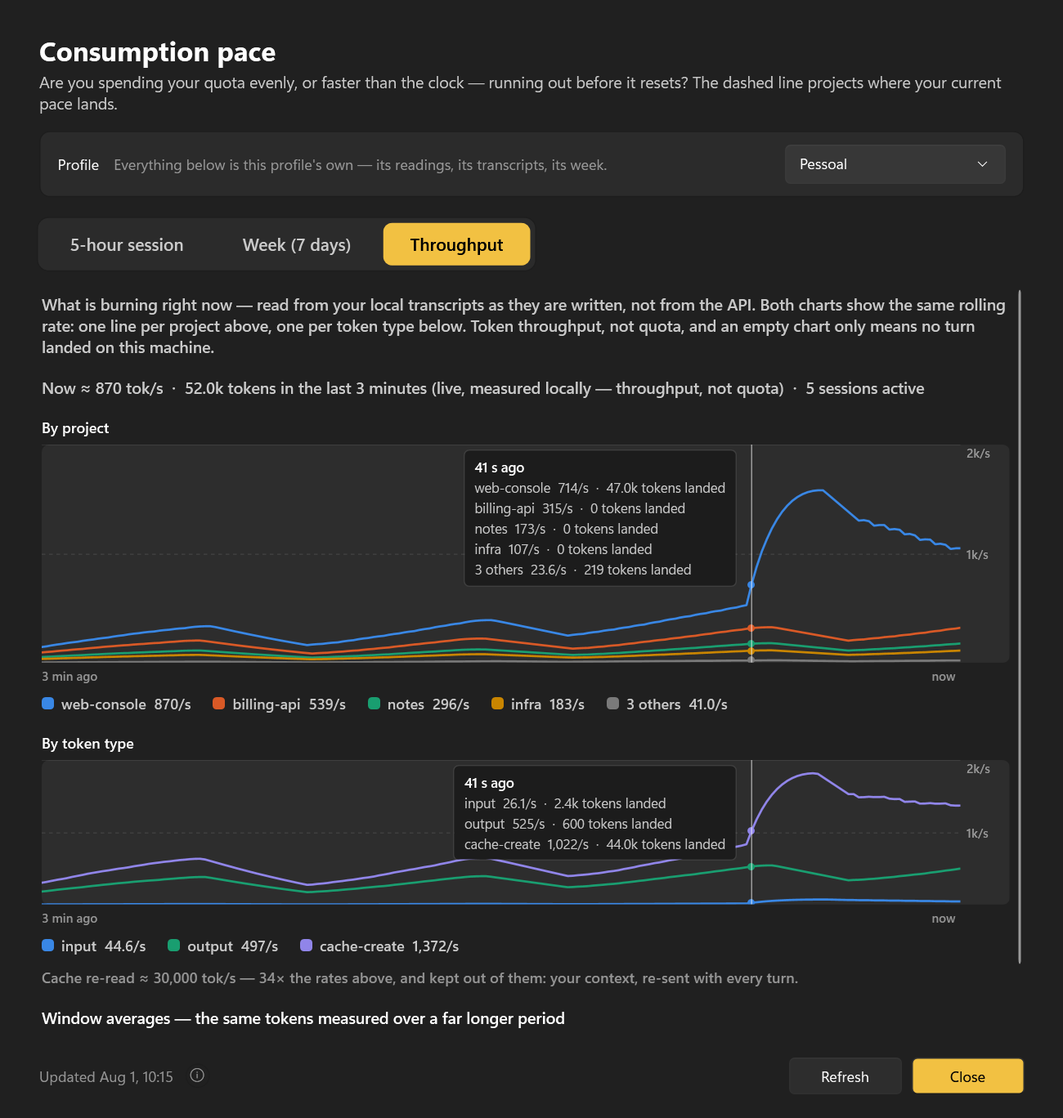
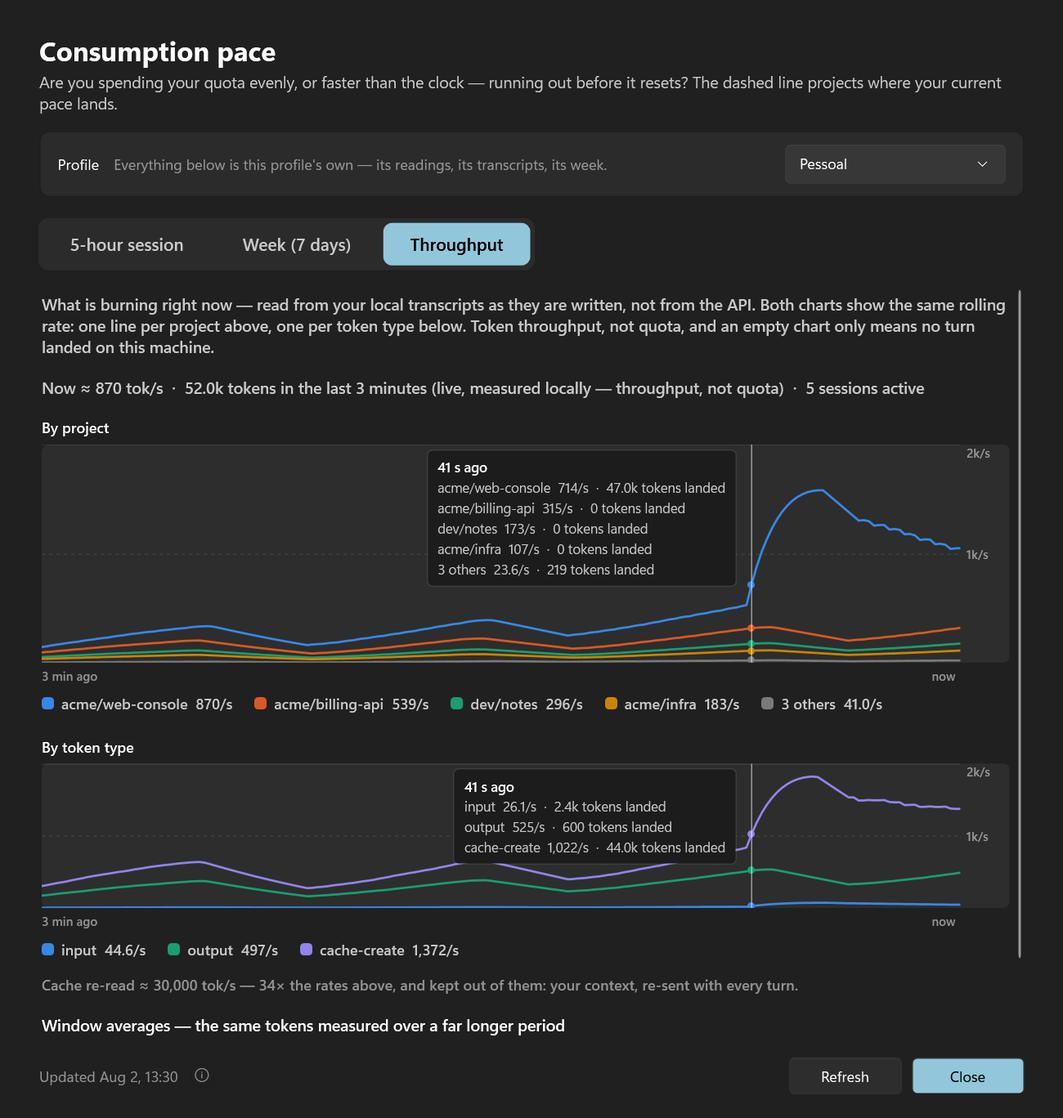
fix: the legend names a project you can tell apart (T154)
- This commit enhances the project naming convention in the Statistics legend to use the last two segments of the directory path, improving clarity when multiple projects share similar names.
- The change addresses user feedback indicating confusion between projects with identical names, ensuring that each project is distinctly labeled in both the Statistics window and the Context project list.
- The logic for generating project names has been centralized in the `ProjectSlug` class, ensuring consistency across different parts of the application and reducing potential discrepancies.
- The UI components have been updated to accommodate longer project names, including adjustments to layout elements to prevent overflow and maintain readability.
- Documentation has been updated to reflect these changes, including the rationale behind the new naming strategy and its implementation across the application.

diff --git a/src/Ui/StatisticsWindow.xaml b/src/Ui/StatisticsWindow.xaml
@@ -391,7 +391,10 @@
                                        Margin="0,0,44,0"
                                        Foreground="{DynamicResource TextFillColorTertiaryBrush}" />
                         </Grid>
-                        <StackPanel x:Name="LegendProjects" Orientation="Horizontal" Margin="0,8,0,0" />
+                        <!-- Wraps, unlike the by-type legend below: project names are as long as the
+                             machine's folders and carry a parent segment (T150), so five of them can
+                             out-run the plate. Identical to a StackPanel while they fit. -->
+                        <WrapPanel x:Name="LegendProjects" Orientation="Horizontal" Margin="0,8,0,0" />
 
                         <TextBlock Text="{local:Loc stats.throughput.byType}" Margin="0,16,0,0"
                                    FontSize="12" FontWeight="SemiBold"

diff --git a/src/Core/ProjectSlug.cs b/src/Core/ProjectSlug.cs
@@ -23,6 +23,10 @@ namespace ClaudeTray;
 /// return a directory that exists, and when two readings both exist it returns the first one found,
 /// which is why it is the fallback and not the answer.</item>
 /// </list>
+///
+/// <para>It also owns the other half of that question — <em>how the answer is written down</em>. Every
+/// screen that names a project names it through <see cref="ShortName"/>, so the Statistics legend and
+/// the Context Load Inspector's list cannot disagree about what to call the same directory (T150).</para>
 /// </summary>
 internal static class ProjectSlug
 {
@@ -57,13 +61,34 @@ internal static class ProjectSlug
         return null;
     }
 
-    /// <summary>The folder <em>name</em> of that root — what a chart legend or a project list shows.
-    /// Falls back to <see cref="Tail"/> when the slug cannot be verified against this cwd.</summary>
-    public static string NameFor(string slug, string cwd)
+    /// <summary>The display name of that root — what a chart legend or a project list shows. Falls
+    /// back to <see cref="Tail"/> when the slug cannot be verified against this cwd.</summary>
+    public static string NameFor(string slug, string cwd) => ShortNameFor(slug, cwd) ?? Tail(slug);
+
+    /// <summary>The same display name, or <c>null</c> when no ancestor of <paramref name="cwd"/>
+    /// encodes to the slug — for callers that would rather report nothing than a guess.</summary>
+    public static string? ShortNameFor(string slug, string cwd)
+        => RootFor(slug, cwd) is { Length: > 0 } root ? ShortName(root) : null;
+
+    /// <summary>
+    /// How a directory is <b>named on screen</b> anywhere in this app: its last two segments —
+    /// <c>turing/2026.3</c>, <c>viglet/cloud</c> — never the full path and never the leaf alone.
+    /// </summary>
+    /// <remarks>The leaf on its own is not an identity on a real machine (T150): a release folder is
+    /// checked out once per client, so three different projects here are all called <c>2026.3</c>, and
+    /// a legend that labels three lines identically has labelled none of them. One segment of parent is
+    /// what disambiguates them in practice, and it is what the Context Load Inspector's project list has
+    /// shown since it shipped — the two screens name the same directory the same way because they now
+    /// name it through the same method. Falls back to the leaf when there is no parent to add.</remarks>
+    public static string ShortName(string path)
     {
-        if (RootFor(slug, cwd) is not { Length: > 0 } root) return Tail(slug);
-        string name = Path.GetFileName(root.TrimEnd('\\', '/'));
-        return name.Length > 0 ? name : root;
+        string trimmed = path.TrimEnd('\\', '/');
+        string leaf = Path.GetFileName(trimmed);
+        if (leaf.Length == 0) return trimmed;
+        string parent = Path.GetDirectoryName(trimmed) is { Length: > 0 } up
+            ? Path.GetFileName(up.TrimEnd('\\', '/'))
+            : "";
+        return parent.Length > 0 ? parent + "/" + leaf : leaf;
     }
 
     /// <summary>

diff --git a/src/Cli/LiveCli.cs b/src/Cli/LiveCli.cs
@@ -52,8 +52,20 @@ internal static class LiveCli
             : $"watcher: off — falling back to the {TranscriptTail.SweepFloorMs}ms sweep floor");
     }
 
+    /// <summary>Column width for a project name in the per-project lines. Wide enough for the two
+    /// segments the app names a directory by since T150 ("alegauss/claude-tray"), so the disambiguating
+    /// half is not what gets cut.</summary>
+    private const int NameWidth = 24;
+
+    // Elided in the *middle*, not from the front: a name is "parent/leaf" since T150 and the parent is
+    // the half that tells two checkouts of the same release folder apart, so cutting the head would
+    // throw away the reason it is there.
     private static string Trim(string s, int max)
-        => s.Length <= max ? s : "…" + s[^(max - 1)..];
+    {
+        if (s.Length <= max) return s;
+        int tail = (max - 1) * 2 / 3;
+        return s[..(max - 1 - tail)] + "…" + s[^tail..];
+    }
 
     // Headless view of LiveRate: one line a second, so the metric can be watched against real work
     // and diffed against `--tail`'s raw turns. Flags: `--live <seconds>` to bound the run (default
@@ -122,7 +134,7 @@ internal static class LiveCli
             string where = live.Quiet
                 ? "quiet"
                 : string.Join("  ", live.Projects().Select(p =>
-                      $"[{(p.IsOthers ? "·" : p.Slot.ToString())}] {(p.IsOthers ? p.Display : Trim(p.Display, 18))} {p.TokensPerSecond,6:N0}/s"));
+                      $"[{(p.IsOthers ? "·" : p.Slot.ToString())}] {(p.IsOthers ? p.Display : Trim(p.Display, NameWidth))} {p.TokensPerSecond,6:N0}/s"));
 
             Console.WriteLine($"{DateTime.Now:HH:mm:ss}  {rate,8:N0} tok/s  {bar}  " +
                               (raw ? $"[raw {live.Instant,8:N0}]  " : "") +
@@ -137,7 +149,7 @@ internal static class LiveCli
         Console.WriteLine($"rolling rate, last {history.Length}s (one cell per {history.Length / 60}s):");
         Console.WriteLine("  " + Spark(history, 60) + $"   → {history[^1]:N0} tok/s at the right edge");
         foreach (ProjectSlice p in live.Projects(LiveChart.Seconds).Where(p => p.RatePerSecond.Length > 0))
-            Console.WriteLine($"  [{(p.IsOthers ? "·" : p.Slot.ToString())}] {Trim(p.Display, 18),-18} " +
+            Console.WriteLine($"  [{(p.IsOthers ? "·" : p.Slot.ToString())}] {Trim(p.Display, NameWidth),-NameWidth} " +
                               Spark(p.RatePerSecond, 60) + $"   → {p.RatePerSecond[^1]:N0} tok/s");
 
         TailStats st = tail.Stats;

diff --git a/src/Usage/TranscriptTail.cs b/src/Usage/TranscriptTail.cs
@@ -7,7 +7,8 @@ namespace ClaudeTray;
 /// <c>~/.claude/projects/&lt;slug&gt;</c> directory it landed in, and which session file carried it.</summary>
 /// <remarks><paramref name="Project"/> is the encoded slug — unique, and the right grouping key, since
 /// two worktrees of the same repo share a folder name but never a slug. <paramref name="Name"/> is
-/// that project's folder name resolved from the session's <c>cwd</c>, which is the only way to get it
+/// that project's display name (its last two path segments, <c>turing/2026.3</c>) resolved from the
+/// session's <c>cwd</c>, which is the only way to get it
 /// right: the slug encodes path separators and literal dashes identically, so
 /// <c>d--Git-acme-claude-tray</c> cannot be split back into "claude-tray" without guessing (and
 /// guessing turns <c>...-shio-2026-3</c> into "3"). <paramref name="Session"/> is the transcript's
@@ -451,8 +452,10 @@ internal sealed class TranscriptTail : IDisposable
         => fi.Directory?.Name ?? "?";
 
     /// <summary>
-    /// The project's folder name, resolved by matching the slug against the recorded <c>cwd</c> —
-    /// <see cref="ProjectSlug.RootFor"/>, which since T105 is the app's only reader of that encoding.
+    /// The project's display name, resolved by matching the slug against the recorded <c>cwd</c> —
+    /// <see cref="ProjectSlug.ShortNameFor"/>, which since T105 is the app's only reader of that
+    /// encoding and since T150 the only writer of the name that comes out of it (the last two
+    /// segments, so three checkouts called <c>2026.3</c> are three different labels).
     ///
     /// <para>Naïvely taking <c>GetFileName(cwd)</c> is wrong, and wrong in a way that only shows up in
     /// use: <c>cwd</c> is the working directory <em>of that turn</em>, so any <c>cd</c> inside the
@@ -460,12 +463,7 @@ internal sealed class TranscriptTail : IDisposable
     /// reporting itself as "_preview". The slug, however, encodes the session's <b>root</b>, so
     /// walking the cwd up its parents until one encodes to the slug recovers the root exactly.</para>
     /// </summary>
-    private static string? ResolveName(string slug, string cwd)
-    {
-        if (ProjectSlug.RootFor(slug, cwd) is not { Length: > 0 } root) return null;
-        string name = System.IO.Path.GetFileName(root.TrimEnd('\\', '/'));
-        return name.Length > 0 ? name : root;
-    }
+    private static string? ResolveName(string slug, string cwd) => ProjectSlug.ShortNameFor(slug, cwd);
 
     public void Dispose()
     {

diff --git a/src/Context/ContextScanner.cs b/src/Context/ContextScanner.cs
@@ -148,21 +148,13 @@ internal sealed class ContextProject
     /// <summary>
     /// Display name: the last two path segments ("viglet/cloud", "turing/2026.3"). Leaf-only would
     /// be ambiguous on this machine — three different worktree projects are all called "2026.3".
+    /// The rule itself lives in <see cref="ProjectSlug.ShortName"/> since T150, so the Statistics
+    /// legend names the same directory the same way this list does.
     /// </summary>
     [JsonIgnore]
-    public string ShortPath
-    {
-        get
-        {
-            if (State == PathState.NotAPath || Path.Length == 0) return Slug;
-            string trimmed = Path.TrimEnd('\\', '/');
-            string? parent = System.IO.Path.GetDirectoryName(trimmed);
-            string leaf = System.IO.Path.GetFileName(trimmed);
-            if (leaf.Length == 0) return trimmed;
-            string parentLeaf = parent is { Length: > 0 } ? System.IO.Path.GetFileName(parent.TrimEnd('\\', '/')) : "";
-            return parentLeaf.Length > 0 ? parentLeaf + "/" + leaf : leaf;
-        }
-    }
+    public string ShortPath => State == PathState.NotAPath || Path.Length == 0
+        ? Slug
+        : ProjectSlug.ShortName(Path);
 
     /// <summary>Eager tokens from this project's own sources (excludes the shared ones).</summary>
     [JsonIgnore]

diff --git a/src/Usage/ThroughputFixture.cs b/src/Usage/ThroughputFixture.cs
@@ -27,13 +27,15 @@ internal readonly record struct ThroughputDemo(
 internal static class ThroughputFixture
 {
     // Four repos plus a residual, so the per-project chart is drawn with the crossings that make the
-    // fixed slots (T114) worth having. The phase staggers who is generating when.
+    // fixed slots (T114) worth having. The phase staggers who is generating when. The names carry
+    // their parent segment because the real ones do (T150) — a fixture that publishes a shorter label
+    // than the app draws would understate what the legend has to fit.
     private static readonly (string Slug, string Name, int Phase, double Weight)[] Repos =
     {
-        ("d--Git-acme-web-console", "web-console", 0, 1.00),
-        ("d--Git-acme-billing-api", "billing-api", 5, 0.62),
-        ("c--Users-dev-notes",      "notes",       2, 0.34),
-        ("d--Git-acme-infra",       "infra",       8, 0.21),
+        ("d--Git-acme-web-console", "acme/web-console", 0, 1.00),
+        ("d--Git-acme-billing-api", "acme/billing-api", 5, 0.62),
+        ("c--Users-dev-notes",      "dev/notes",        2, 0.34),
+        ("d--Git-acme-infra",       "acme/infra",       8, 0.21),
     };
 
     /// <summary>Long enough for both filters to be warm at the left edge: every drawn point needs the

diff --git a/src/Usage/LiveRate.cs b/src/Usage/LiveRate.cs
@@ -3,8 +3,10 @@
 /// <summary>One project's share of the live rate: its per-second history over the strip, the same
 /// history as a <b>rolling rate</b>, its total over the trailing window, and its rate right now.
 /// <paramref name="Slug"/> is the <c>~/.claude/projects/&lt;slug&gt;</c> directory name and the grouping
-/// key; <paramref name="Display"/> is the folder name resolved from the session's <c>cwd</c> — never the
-/// full path. <paramref name="IsOthers"/> marks the residual bucket that everything past the top few
+/// key; <paramref name="Display"/> is the directory's last two segments (<c>turing/2026.3</c>) resolved
+/// from the session's <c>cwd</c> — never the full path, and never the leaf alone, which on a machine
+/// that checks a release folder out per client labels three different lines "2026.3" (T150).
+/// <paramref name="IsOthers"/> marks the residual bucket that everything past the top few
 /// folds into, and <paramref name="Slot"/> is its <b>stable</b> position: assigned on first appearance
 /// and held until the project leaves the window, so neither its colour nor its place in the legend
 /// moves while it is on screen (residual slices carry −1).</summary>

diff --git a/src/Ui/StatisticsWindow.Throughput.cs b/src/Ui/StatisticsWindow.Throughput.cs
@@ -374,7 +374,9 @@ internal partial class StatisticsWindow : Window
     // One swatch + label pair, shared by both legends so they cannot drift apart visually.
     private StackPanel LegendEntry(Color color, string text, string? tip)
     {
-        var row = new StackPanel { Orientation = System.Windows.Controls.Orientation.Horizontal, Margin = new Thickness(0, 0, 18, 0) };
+        // The bottom margin only ever shows when the project legend wraps to a second row (T150); on
+        // one row it is 3px of slack under a 10px swatch, which nothing else is measured against.
+        var row = new StackPanel { Orientation = System.Windows.Controls.Orientation.Horizontal, Margin = new Thickness(0, 0, 18, 3) };
         row.Children.Add(new System.Windows.Shapes.Rectangle
         {
             Width = 10, Height = 10, RadiusX = 3, RadiusY = 3,

diff --git a/CHANGELOG.md b/CHANGELOG.md
@@ -34,6 +34,7 @@
 | [S](#block-s--settings-round-trip) | Settings round-trip — a field missing from the copy is a field reset |
 | [T](#block-t--one-profile-the-whole-environment) | One profile, the whole environment — the tray writes the user-scope `CLAUDE_CONFIG_DIR` |
 | [U](#block-u--the-environment-write-stops-freezing-the-app) | The environment write stops freezing the app |
+| [W](#block-w--a-project-is-named-so-you-can-tell-two-apart) | A project is named so you can tell two apart |
 
 ## Block A — Foundation (tray, icon, API, projection)
 
@@ -211,6 +212,10 @@
 - **T107** — The cache re-read is said out loud, where it is excluded. `LiveRate` has separated cache reads from real work since T98 and showed the result to nobody, and the result is the startling part: measured on this machine's ordinary traffic, **~30,000 tok/s of cache read against ~150 tok/s of work**. Keeping it out of every rate on the tab is right — it barely weighs on the rate limit and would drown the signal — but an exclusion two orders of magnitude larger than what *is* drawn has to be stated, in the place where it is being made. One line now sits under both charts: the rate, its ratio to the rates above (`34×` in the fixture, rounded like a magnitude — "200×", never "197.4×"), and what it is: your context, re-sent with every turn. **Deliberately a sentence and not a fourth line**, which is what §V.12 warned against: a fourth entry in a legend of three reads as a series that was drawn, and the number is only meaningful as a ratio anyway. The ratio is dropped entirely when the work rate falls below 1 tok/s — through a pause the denominator decays toward zero and "∞× the rate above" is a division artefact, not a reading. The rest of the argument — why it is excluded, and that this is the per-turn price of a large eager context, which **Context load** measures statically — is on hover, because it did not fit: the first version was a two-line paragraph, and the screenshot showed it pushing the window averages below the fold, which is exactly the defect T111 fixed once already. Fixing it properly took both halves: the copy shrank to one line, and the window grew 920→948px (the "Window averages" heading's margin gave up 4 more), because in the *real* window — not the smaller capture frame — the last row was still being cut in half. Verified by looking at both: the capture path for the published image and the real window driven at its default size. Three keys across all five `lang/*.json`; the fixture reports the measured 30k tok/s against its own 870 tok/s of work, so the published screenshot carries a real order of magnitude rather than an invented one. README, site and `llms.txt` updated; `docs/statistics-*.png` regenerated.
 
 - **T108** — The screenshot fixture moves in with the fixtures (`src/Usage/ThroughputFixture.cs`). The deterministic three minutes behind `--stats live` was hand-shaped inline in `StatisticsWindow.RenderDemoLive`, where it had accreted next to the rendering it feeds while three tasks came to depend on it (T110's ceiling, T112's outlier, T104's pinned reading). It is now one `Build()` returning a `ThroughputDemo` record — series, raw buckets, headline, sessions, cache-read rate and the second the readout is posed on — and the code-behind keeps only what a code-behind should: assign the fields, set the text, render once, hold the pose. Same numbers, same constants, same shaping through the real `LiveRate.RateFrom` kernel. **Pure housekeeping, and proved to be**: capturing the Throughput tab before and after and diffing the two PNGs pixel by pixel gives **77 differing pixels, all inside x 202–210, y 1311–1323** — the minute digits in the footer's "Updated …" line. Both charts, both readout cards, the legends and the cache-read line are pixel-identical. Block K's last task, so the block leaves `ROADMAP.md` and its design section (§V) leaves `IMPROVEMENTS.md`; three TOC rows there that pointed at sections already pruned went with it, and the roadmap's tray-icon non-goal now cites this changelog instead of a section that no longer exists.
+
+## Block W — A project is named so you can tell two apart
+
+- **T154** — The Throughput legend names a project by its **last two path segments** — `turing/2026.3`, not `2026.3`. Reported from use with the screenshot to prove it: *"em vazão estou normalmente usando a pasta com a versão 2026.3 tanto no shio quanto no turing … aparece o mesmo nome 2026.3 e não dá pra distinguir qual é o projeto"*. Two lines, two colours, one label — and the tooltip that carries the full slug only answers on hover, one line at a time. The suggested fix was the right one and it was already in the app: the Context Load Inspector's project list has shown `parent/leaf` since it shipped, for exactly this machine's reason (a release folder is checked out once per client, so several projects are called `2026.3`). What shipped is therefore the *shared* rule rather than a second copy of it — `ProjectSlug.ShortName`, in the class that has been the app's only reader of the `projects/<slug>` encoding since T105, now also the only writer of the name that comes out of it. `ContextProject.ShortPath` is four lines that call it, `TranscriptTail` resolves through `ShortNameFor` (same exact `RootFor` walk as before — the name still comes from the session's **root**, never from a `cwd` that a `cd` moved), and the two screens can no longer disagree about what to call the same directory. Three consequences of a longer label, each dealt with rather than discovered: the project legend is a `WrapPanel` now, so five long names fold to a second row instead of running off the plate (identical to the `StackPanel` it replaces while they fit); `--live`'s column widened 18 → 24 and its ellipsis moved to the **middle**, since cutting the head is cutting the half that disambiguates; and `ThroughputFixture`'s four repos carry their parent segment (`acme/web-console`), so the published screenshot goes on showing what the app really draws. Verified against both ends: `--live` on this machine now prints `turing/2026.3` beside `alegauss/claude-tray` and `alegauss/roadkeep`, and the re-captured Throughput tab shows the legend and the hover readout naming all five series in full. No new strings — the label was never a translated one; `docs/statistics-throughput.png` regenerated (the accent colour differs from the older shots because this machine's Windows accent has changed since, not because anything in the app did).
 
 ## Block U — The environment write stops freezing the app
 

diff --git a/last-task.md b/last-task.md
@@ -1,9 +1,10 @@
-# Last task number — `T153` · next block letter — `W`
+# Last task number — `T154` · next block letter — `X`
 
-> **Single source of truth for the next free task number.** The next new task is `T154`; after
+> **Single source of truth for the next free task number.** The next new task is `T155`; after
 > assigning it, bump the number above and append a log line below.
 >
-> **Next block letter — `W`** (Block **V** = What the self-check found; created 2026-08-02).
+> **Next block letter — `X`** (Block **W** = A project is named so you can tell two apart; created
+> 2026-08-02).
 >
 > **`CHANGELOG.md` — not `ROADMAP.md` — is authoritative for the real maximum block letter**, since
 > the roadmap is periodically pruned of fully-shipped blocks. Grep it before bumping the letter.
@@ -31,6 +32,12 @@
   closed and pruned, and because the theme is the *check itself* rather than either feature.
   Its design section is **§XII**: §II and §IV–§XI have all been retired, and section numbers are never
   reused — an old commit's `→ §V` must keep pointing where it pointed.
+- Block **W** (T154, created 2026-08-02) is a **field report against shipped Block K**, arriving as a
+  screenshot of the Throughput tab with two lines both labelled `2026.3`. A block of its own rather
+  than a K task because K is closed and pruned, and because the fix is not local to the live charts:
+  the rule for *how a directory is named on screen* now lives in `ProjectSlug` and both windows read
+  it. Shipped in the same commit it was created in, so it has no `ROADMAP.md`/`IMPROVEMENTS.md`
+  entries — the design is the CHANGELOG line and the code.
 - **Block J closed with T96** (2026-08-02) and is pruned from `ROADMAP.md`, which now has no active
   backlog at all. Its §IV design sections are gone from `IMPROVEMENTS.md` too; the one decision that
   outlived the block — no activity-aware tray notification — moved to the roadmap's non-goals, since a
@@ -210,3 +217,4 @@ here. This file is a terse index, not a memory.
 - **T94 SHIPPED** (Block J — per-bucket intensity: the projection paces a heavy hour differently from a light one) — 2026-08-02.
 - **T95 SHIPPED** (Block J — weeks away are dropped from the vote instead of teaching the grid that nobody works) — 2026-08-02.
 - **T96 SHIPPED** (Block J — `--selftest`: 58 checks over the pacing and live-rate arithmetic, wired into the build) — 2026-08-02.
+- **T154 SHIPPED** (Block W — the legend names a project by its last two segments, one rule for both windows) — 2026-08-02.

diff --git a/AGENTS.md b/AGENTS.md
@@ -111,7 +111,7 @@ folder needs no csproj edit; if a move seems to need one, the move is wrong.
 |---|---|
 | `src/Core/Localization.cs` | The dependency-free `L` / `{local:Loc key}` layer over the embedded `lang\<code>.json` files: language picked from Settings, else the OS UI language, English as the fallback for a missing key. |
 | `src/Core/SampleRoot.cs` | Where a fixture is built: a directory whose path holds no user name (`%PUBLIC%`, temp as fallback), because fixture screenshots get published and an absolute path spells out the Windows account. Shared by `ContextFixture` and `AccountFixture`. |
-| `src/Core/ProjectSlug.cs` | The app's **only** reader and writer of the `projects/<slug>` encoding (T105): `Encode` (also what the fixture names its dirs with), `RootFor`/`NameFor` — exact, by walking a recorded `cwd` up to the ancestor that encodes to the slug — `TryProbe`, the filesystem guess for when no cwd exists, and `Literal`/`Tail` for reporting an unresolvable one. |
+| `src/Core/ProjectSlug.cs` | The app's **only** reader and writer of the `projects/<slug>` encoding (T105): `Encode` (also what the fixture names its dirs with), `RootFor`/`NameFor`/`ShortNameFor` — exact, by walking a recorded `cwd` up to the ancestor that encodes to the slug — `TryProbe`, the filesystem guess for when no cwd exists, and `Literal`/`Tail` for reporting an unresolvable one. Also the **only** place that decides how a directory is *named on screen* (T154): `ShortName` = its last two segments (`turing/2026.3`), which both the Statistics legend and the Context project list go through, since the leaf alone labels three checkouts of a release folder identically. |
 | `src/Core/SafeWalk.cs` | The recursive `~/.claude` walk every scan goes through: per directory, so an unreadable one (untrusted junction, denied ACL, folder deleted mid-sweep) skips its subtree instead of aborting the sweep. Materializes each directory's entries — a `try` around a lazy `Enumerate*` catches nothing — and resolves a reparse point to its target before opening it. |
 
 **`src/Ui/` — the windows** (the 4 `.xaml`/`.xaml.cs` pairs + `SettingsRow.cs`). A window with several
